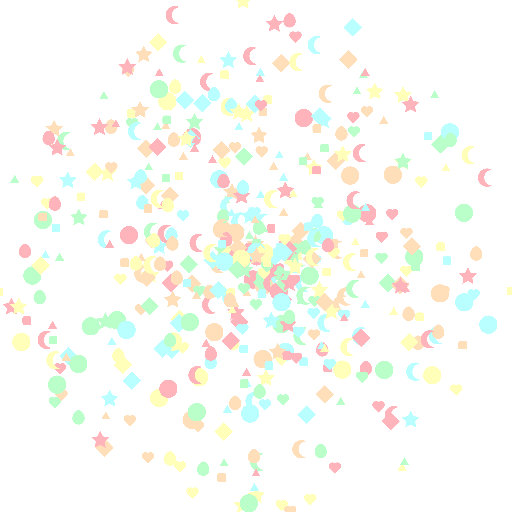
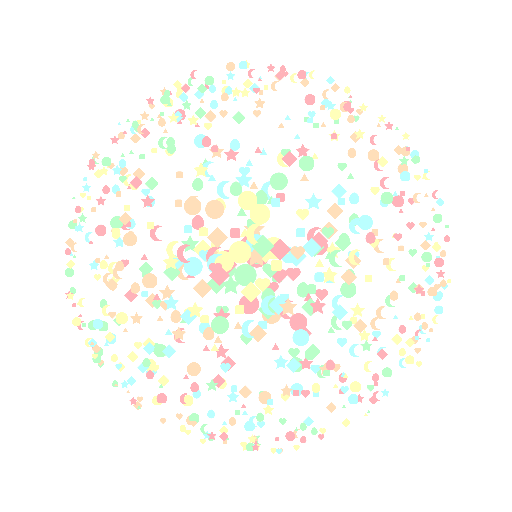
a rounder distribution pattern for sprinkles

diff --git a/demo.c b/demo.c
@@ -874,7 +874,7 @@ void moon(struct canvas *ctx,
     draw(ctx->buf, ctx->res, svec4(x, y, w, h), d_moon, &mn);
 }
 
-#define NSPRINKLES 500
+#define NSPRINKLES 700
 
 void sprinkles(struct canvas *ctx, struct vec3 *rainbow)
 {
@@ -893,16 +893,24 @@ void sprinkles(struct canvas *ctx, struct vec3 *rainbow)
         float rad, angle;
         float xpos, ypos;
         int shape;
+        float slope;
 
         rad = (float)rand() / RAND_MAX;
+
+        /* exponential mapping */
+        slope = -3;
+        rad = (1 - exp(rad*slope)) / (1 - exp(slope)); 
+
         angle = ((float)rand() / RAND_MAX) * 2 * M_PI;
 
         shape = 0;
 
         shape = (8 * ((float)rand() / RAND_MAX));
 
-        xpos = 0.5*(1 + rad*cos(angle)) * w;
-        ypos = 0.5*(1 + rad*sin(angle)) * h;
+        xpos = 0.5*(1 + 0.75*rad*cos(angle)) * w;
+        ypos = 0.5*(1 + 0.75*rad*sin(angle)) * h;
+
+        sz = 5 + 8 * (1 - rad);
 
         switch (shape) {
             case 0:
